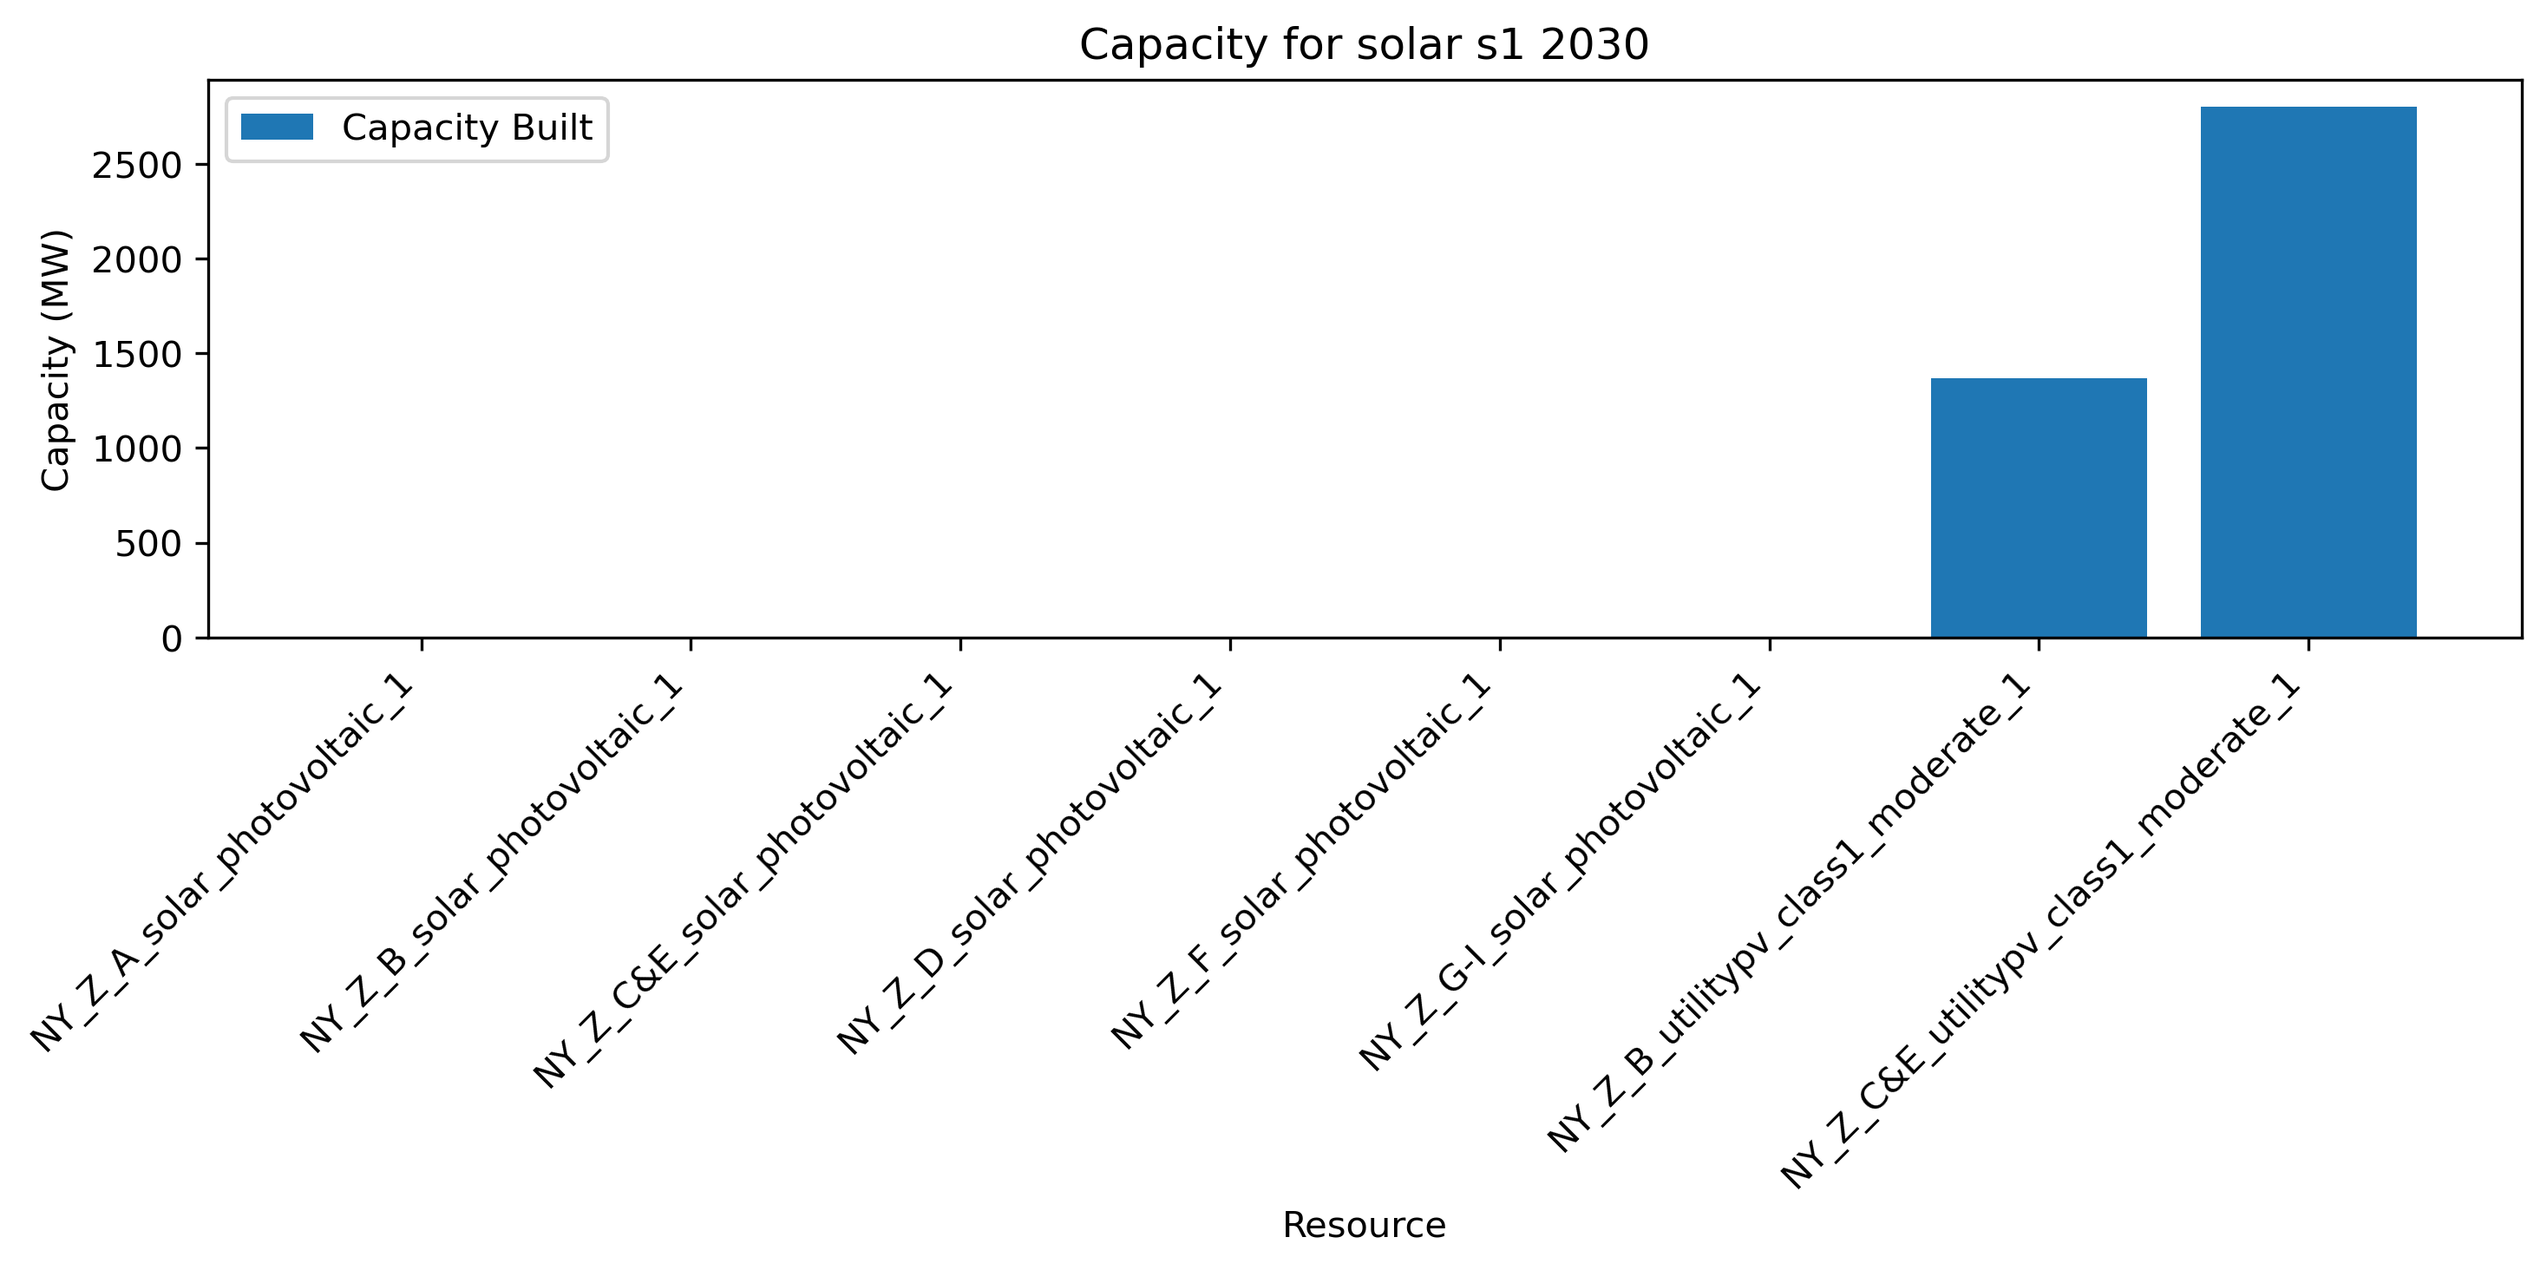
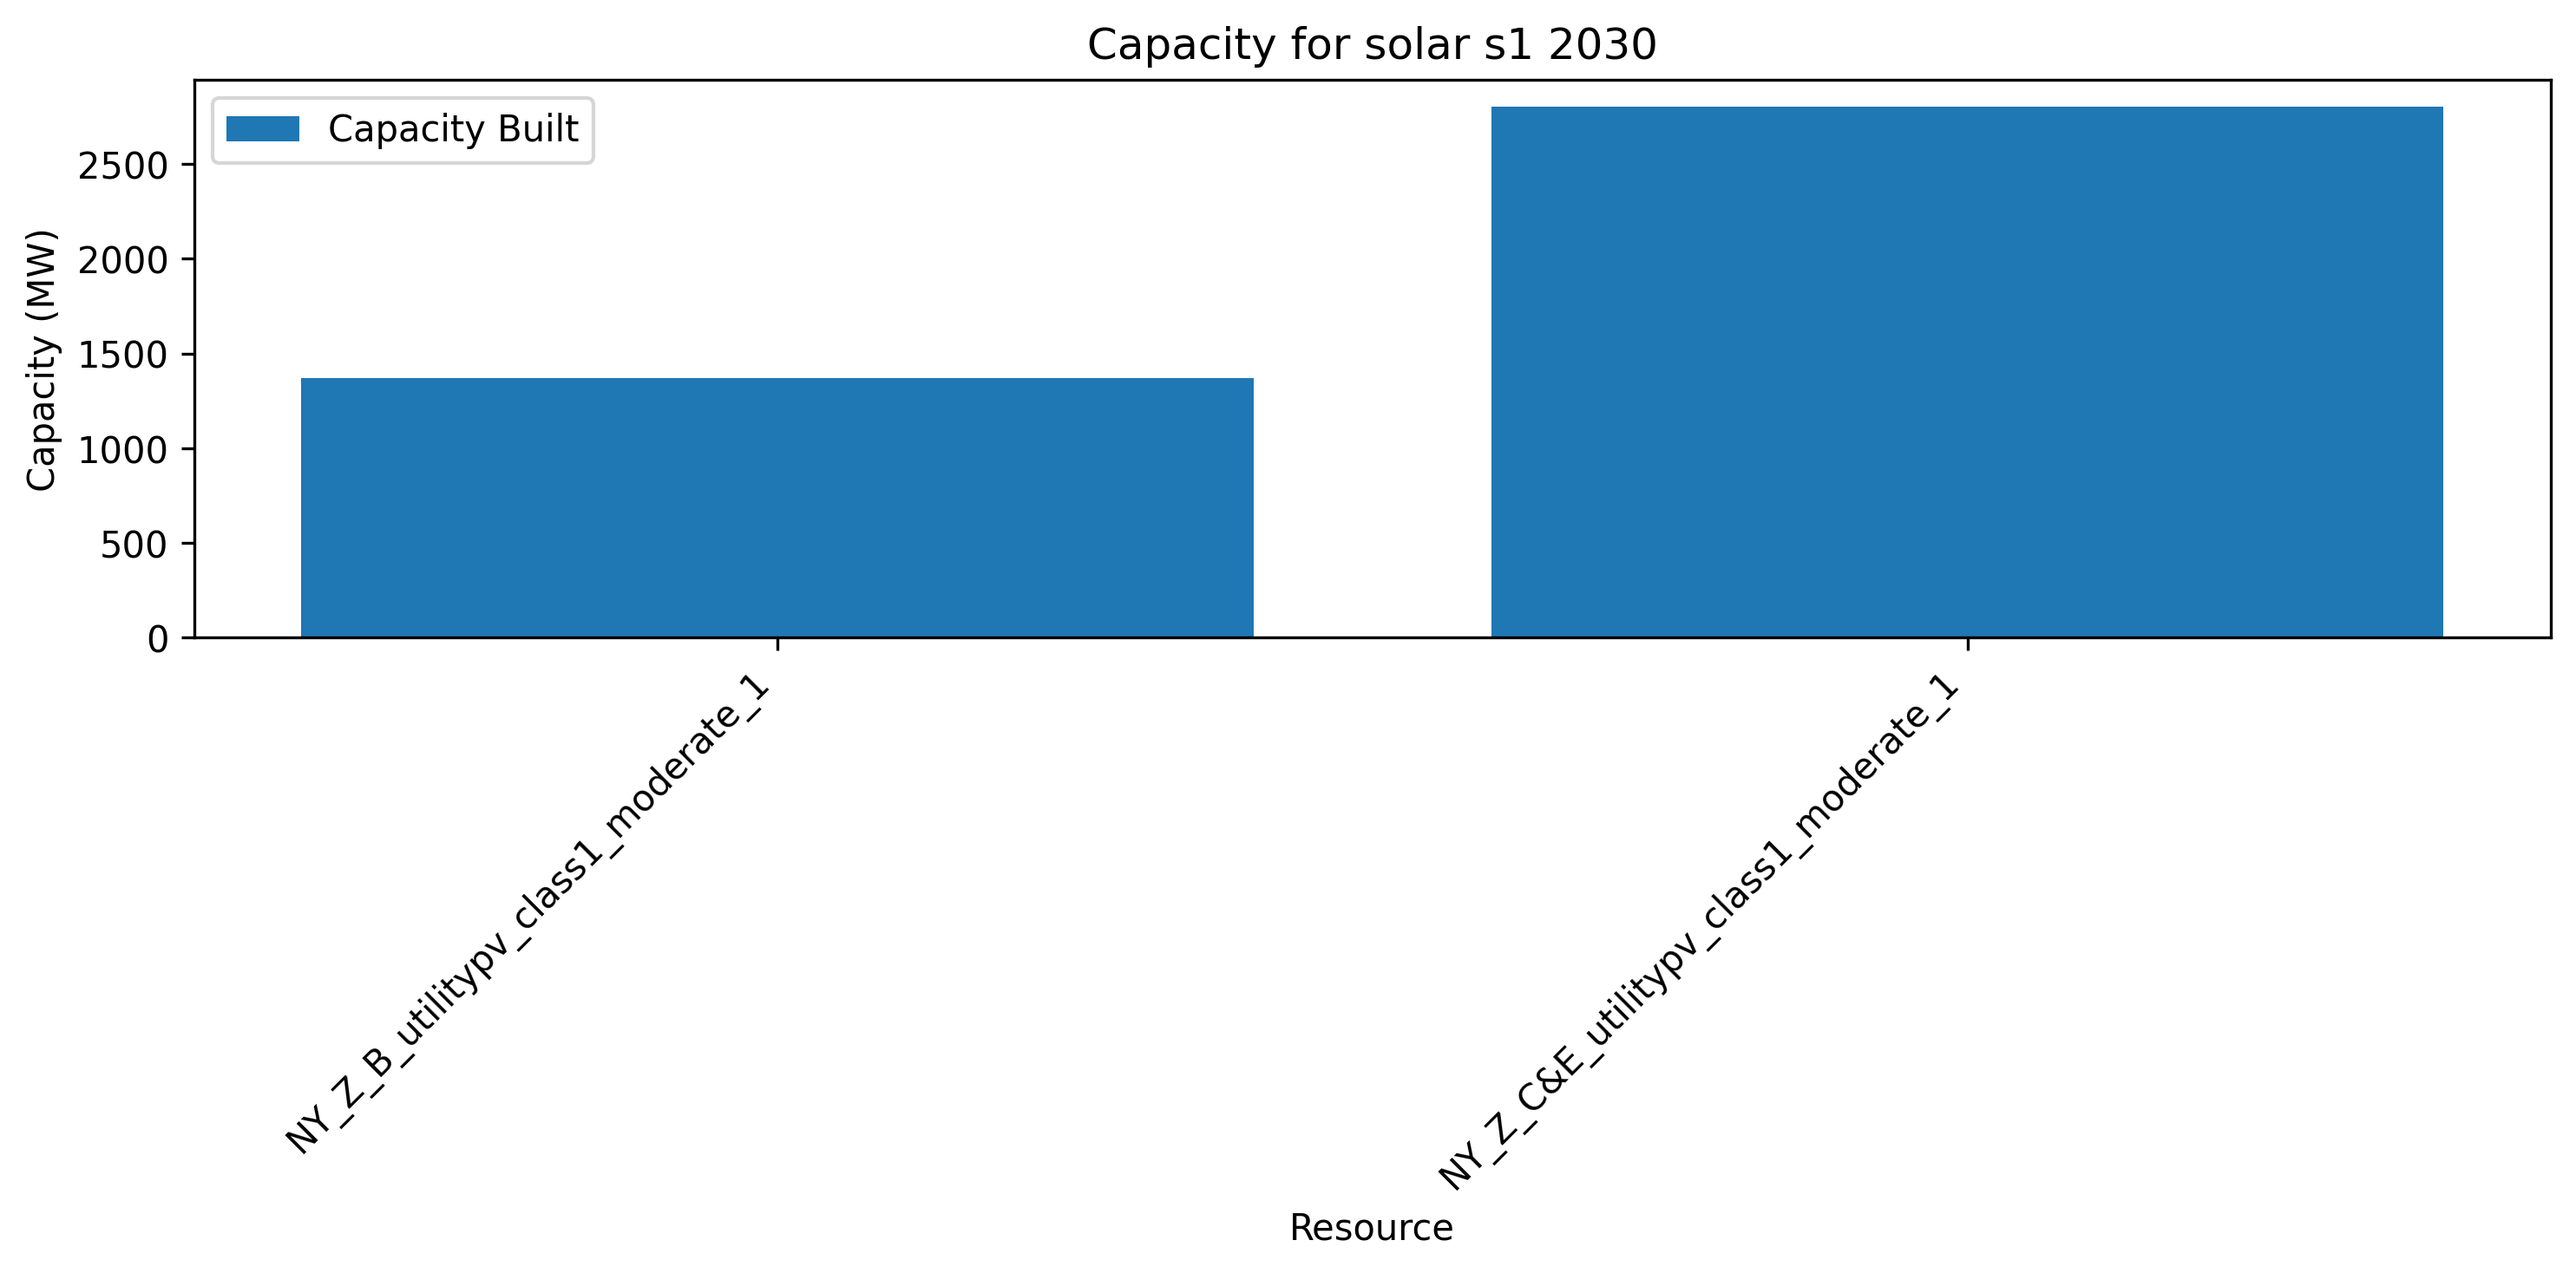
new graph parsing

diff --git a/Land Analysis/Capacity Figures/Capacity_plot_test.py b/Land Analysis/Capacity Figures/Capacity_plot_test.py
@@ -5,16 +5,21 @@ import os
 from pathlib import Path
 
 tech_types = ["hydro", "gas", "wind", "solar", "nuclear"]
-zones = [2,3,4,5,6,7]
+zones = [2,3,4,5,6,7,8,9]
 
-s1_path_2030 = 'output/202512092100-PG-2030-B/s1/results/capacity.csv'
-s2_path = 'output/202512092100-PG-2030-B/s2/results/capacity.csv'
-s3_path = 'output/202512092100-PG-2030-B/s3/results/capacity.csv'
-s1_path_2040 = 'output/202512092232-PG-2040-B/s1/results/capacity.csv'
-s4_path = 'output/202512092232-PG-2040-B/s4/results/capacity.csv'
-s5_path = 'output/202512092232-PG-2040-B/s5/results/capacity.csv'
-s6_path = 'output/202512092232-PG-2040-B/s6/results/capacity.csv'
-s7_path = 'output/202512092232-PG-2040-B/s7/results/capacity.csv'
+s1_path_2030 = 'NYS-Land-Use/output/202512092100-PG-2030-B/s1/results/capacity.csv'
+s2_path = 'NYS-Land-Use/output/202512092100-PG-2030-B/s2/results/capacity.csv'
+s3_path = 'NYS-Land-Use/output/202512092100-PG-2030-B/s3/results/capacity.csv'
+# s1_path_2040 = 'output/202512092232-PG-2040-B/s1/results/capacity.csv'
+# s4_path = 'output/202512092232-PG-2040-B/s4/results/capacity.csv'
+# s5_path = 'output/202512092232-PG-2040-B/s5/results/capacity.csv'
+# s6_path = 'output/202512092232-PG-2040-B/s6/results/capacity.csv'
+# s7_path = 'output/202512092232-PG-2040-B/s7/results/capacity.csv'
+s1_path_2040 = 'NYS-Land-Use/output/202512161939-PG-2040-B/s1/results/capacity.csv'
+s4_path = 'NYS-Land-Use/output/202512161939-PG-2040-B/s4/results/capacity.csv'
+s5_path = 'NYS-Land-Use/output/202512161939-PG-2040-B/s5/results/capacity.csv'
+s6_path = 'NYS-Land-Use/output/202512161939-PG-2040-B/s6/results/capacity.csv'
+s7_path = 'NYS-Land-Use/output/202512161939-PG-2040-B/s7/results/capacity.csv'
 
 pathnames = [s1_path_2030, s2_path, s3_path, s1_path_2040, s4_path, s5_path, s6_path, s7_path]
 scenario_names = ['s1 2030', 's2', 's3', 's1 2040', 's4', 's5', 's6', 's7']
@@ -25,7 +30,7 @@ plot_aggregation = 1
 def get_data_from_csv(pathname):
     capacity = pd.read_csv(pathname)
     df = capacity.copy()
-    resources = ["hydro", "gas", "wind", "utilitypv", "nuclear", "trans", "biomass", "distributed", "photovoltaic"]
+    resources = ["hydro", "gcf", "ccs", "wind", "utilitypv", "nuclear", "trans", "biomass", "distributed", "photovoltaic"]
 
     pattern = "|".join(resources)
 
@@ -37,9 +42,11 @@ def get_data_from_csv(pathname):
 
     data = {
         "wind": df[df["ResourceType"] == "wind"],
-        "gas": df[df["ResourceType"] == "gas"],
+        "gas": df[df["ResourceType"] == "gcf"],
+        "ccs": df[df["ResourceType"] == "ccs"],
         "hydro": df[df["ResourceType"] == "hydro"],
-        "solar": df[df["ResourceType"].isin(["utilitypv", "photovoltaic"])],
+        "solar": df[df["ResourceType"] == "utilitypv"],
+        "roof-top": df[df["ResourceType"] == "photovoltaic"],
         "nuclear": df[df["ResourceType"] == "nuclear"],
         "trans": df[df["ResourceType"] == "trans"],
         "biomass": df[df["ResourceType"] == "biomass"],
@@ -85,9 +92,9 @@ def plot_resource_capacity(resource_df, resource_name, tech_types, zones, plot_a
     plt.legend()
     plt.tight_layout()
 
-    save_path = f"Land Analysis/Capacity Figures/capacity_{scenario_name}.png"   # <-- update this
+    save_path = f"NYS-Land-Use/Land Analysis/Capacity Figures/capacity_{scenario_name}.png"   # <-- update this
     plt.savefig(save_path, dpi=300, bbox_inches="tight")
-
+    
     #plt.show()
 
 
@@ -146,7 +153,16 @@ for i in range(len(pathnames)):
 
 def plot_stacked_newcap(all_scenario_data, scenario_names, zones_to_include):
 
-    tech_order = ["solar", "wind", "gas", "hydro", "nuclear"]
+    tech_order = ["ccs", "solar", "wind", "gas", "hydro", "nuclear", "roof-top"]
+    tech_colors = {
+    "ccs": "#5e8b23",        # gray
+    "solar": "#1f77b4",      # yellow
+    "wind": "#FDB813",       # blue
+    "gas": "#d62728",        # red
+    "hydro": "#2c9795",      # teal
+    "nuclear": "#9467bd",    # purple
+    "roof-top": "#6c5336"    # green
+}
     df_list = []
 
     for scenario_name, data in zip(scenario_names, all_scenario_data):
@@ -173,7 +189,7 @@ def plot_stacked_newcap(all_scenario_data, scenario_names, zones_to_include):
 
     # Plot
     plt.figure(figsize=(12,6))
-    pivot.plot(kind="bar", stacked=True, figsize=(12,6))
+    pivot.plot(kind="bar", stacked=True, figsize=(12,6), color=[tech_colors[t] for t in pivot.columns])
 
     plt.ylabel("Added Capacity (MW)")
     plt.xlabel("Scenario")
@@ -182,7 +198,7 @@ def plot_stacked_newcap(all_scenario_data, scenario_names, zones_to_include):
     plt.legend(title="Generation Type")
     plt.tight_layout()
 
-    save_path = "Land Analysis/Capacity Figures/NewCap_Bars.png"
+    save_path = "NYS-Land-Use/Land Analysis/Capacity Figures/NewCap_Bars.png"
     plt.savefig(save_path, dpi=300, bbox_inches="tight")
 
     # plt.show()
@@ -194,7 +210,7 @@ all_scenario_data = []
 for path in pathnames:
     all_scenario_data.append(get_data_from_csv(path))
 
-zones = [2,3,4,5,6,7]
+zones = [2,3,4,5,6,7,8,9]
 
 # Create the stacked bar plot
 plot_stacked_newcap(all_scenario_data, scenario_names, zones)

diff --git a/Land Analysis/Land Use Analysis.py b/Land Analysis/Land Use Analysis.py
@@ -3,16 +3,14 @@
 import pandas as pd
 import matplotlib.pyplot as plt
 
-s1_path_2030 = 'output/202512092100-PG-2030-B/s1/results/capacity.csv'
-s2_path = 'output/202512092100-PG-2030-B/s2/results/capacity.csv'
-s3_path = 'output/202512092100-PG-2030-B/s3/results/capacity.csv'
-s1_path_2040 = 'output/202512092232-PG-2040-B/s1/results/capacity.csv'
-s4_path = 'output/202512092232-PG-2040-B/s4/results/capacity.csv'
-s5_path = 'output/202512092232-PG-2040-B/s5/results/capacity.csv'
-s6_path = 'output/202512092232-PG-2040-B/s6/results/capacity.csv'
-s7_path = 'output/202512092232-PG-2040-B/s7/results/capacity.csv'
-
-
+s1_path_2030 = 'NYS-Land-Use/output/202512092100-PG-2030-B/s1/results/capacity.csv'
+s2_path = 'NYS-Land-Use/output/202512092100-PG-2030-B/s2/results/capacity.csv'
+s3_path = 'NYS-Land-Use/output/202512092100-PG-2030-B/s3/results/capacity.csv'
+s1_path_2040 = 'NYS-Land-Use/output/202512161939-PG-2040-B/s1/results/capacity.csv'
+s4_path = 'NYS-Land-Use/output/202512161939-PG-2040-B/s4/results/capacity.csv'
+s5_path = 'NYS-Land-Use/output/202512161939-PG-2040-B/s5/results/capacity.csv'
+s6_path = 'NYS-Land-Use/output/202512161939-PG-2040-B/s6/results/capacity.csv'
+s7_path = 'NYS-Land-Use/output/202512161939-PG-2040-B/s7/results/capacity.csv'
 
 def get_solar_dataframe(pathname):
     df = pd.read_csv(pathname)
@@ -129,7 +127,7 @@ def land_use_analysis(capacity_dataframe, agvol_share, zones, zone_labels, scena
     plt.legend()
     plt.tight_layout()
 
-    save_path = f"Land Analysis/Figures/land_use_{scenario_name}.png"   # <-- update this
+    save_path = f"NYS-Land-Use/Land Analysis/Figures/land_use_{scenario_name}.png"   # <-- update this
     plt.savefig(save_path, dpi=300, bbox_inches="tight")
     #print(f"Figure saved to: {save_path}")
 
@@ -174,5 +172,5 @@ plt.xticks(rotation=45, ha="right")
 plt.legend(title="Generation Type")
 plt.tight_layout()
 
-save_path = "Land Analysis/Capacity Figures/Total_land_by_scenario.png"
+save_path = "NYS-Land-Use/Land Analysis/Capacity Figures/Total_land_by_scenario.png"
 plt.savefig(save_path, dpi=300, bbox_inches="tight")

diff --git a/Land Analysis/Economics.py b/Land Analysis/Economics.py
@@ -3,14 +3,14 @@
 import pandas as pd
 import matplotlib.pyplot as plt
 
-s1_path_2030 = 'output/202512092100-PG-2030-B/s1/results/costs.csv'
-s2_path = 'output/202512092100-PG-2030-B/s2/results/costs.csv'
-s3_path = 'output/202512092100-PG-2030-B/s3/results/costs.csv'
-s1_path_2040 = 'output/202512092232-PG-2040-B/s1/results/costs.csv'
-s4_path = 'output/202512092232-PG-2040-B/s4/results/costs.csv'
-s5_path = 'output/202512092232-PG-2040-B/s5/results/costs.csv'
-s6_path = 'output/202512092232-PG-2040-B/s6/results/costs.csv'
-s7_path = 'output/202512092232-PG-2040-B/s7/results/costs.csv'
+s1_path_2030 = 'NYS-Land-Use/output/202512092100-PG-2030-B/s1/results/costs.csv'
+s2_path = 'NYS-Land-Use/output/202512092100-PG-2030-B/s2/results/costs.csv'
+s3_path = 'NYS-Land-Use/output/202512092100-PG-2030-B/s3/results/costs.csv'
+s1_path_2040 = 'NYS-Land-Use/output/202512092232-PG-2040-B/s1/results/costs.csv'
+s4_path = 'NYS-Land-Use/output/202512092232-PG-2040-B/s4/results/costs.csv'
+s5_path = 'NYS-Land-Use/output/202512092232-PG-2040-B/s5/results/costs.csv'
+s6_path = 'NYS-Land-Use/output/202512092232-PG-2040-B/s6/results/costs.csv'
+s7_path = 'NYS-Land-Use/output/202512092232-PG-2040-B/s7/results/costs.csv'
 
 pathnames = [s1_path_2030, s2_path, s3_path, s1_path_2040, s4_path, s5_path, s6_path, s7_path]
 scenario_names = ['s1 2030', 's2', 's3', 's1 2040', 's4', 's5', 's6', 's7']
@@ -19,7 +19,7 @@ def load_data(pathname):
     df = pd.read_csv(pathname)
 
 def economic_comparison(data):
-    total_cost = data.loc["cTotal", "Total"]
+    total_cost = data.loc["Total"]
     return total_cost
 
 for i in range(len(pathnames)):
